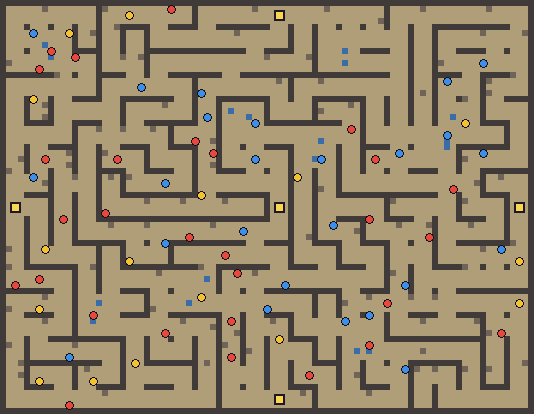
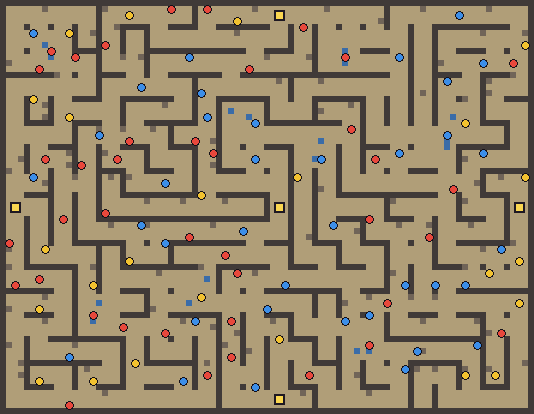
Site do Mekhane: lote 0.1(15) (Ciclope novo, +50% de monstros na descida de Calcópolis, kits e preços novos)

diff --git a/mekhane/mapas/index.html b/mekhane/mapas/index.html
@@ -50,19 +50,19 @@
 </article><article class="card map" data-search="ruína do aqueduto vespa de fornalha roe-escória devorapedra" data-reg="2">
   <h3>Ruína do Aqueduto</h3><p class="muted small">Galerias de Cobre</p>
   <a class="map-wrap" href="/mekhane/img/maps/calc_ruina_a.png" target="_blank" rel="noopener"><img src="/mekhane/img/maps/calc_ruina_a.png" alt="Mapa de Ruína do Aqueduto" width="180" height="132" loading="lazy"></a>
-  <ul class="legend"><li><span class="dot" style="background:#e8483c"></span><img class="px" src="/mekhane/img/monsters/furnace_wasp.png" alt="" loading="lazy"><span>Vespa de Fornalha<small>nível 21 · 4 no mapa</small></span></li><li><span class="dot" style="background:#3c8ee8"></span><img class="px" src="/mekhane/img/monsters/slag_rat.png" alt="" loading="lazy"><span>Roe-Escória<small>nível 22 · 3 no mapa</small></span></li><li><span class="dot" style="background:#f2c230"></span><img class="px" src="/mekhane/img/monsters/ballaster.png" alt="" loading="lazy"><span>Devorapedra<small>nível 24 · 5 no mapa</small></span></li></ul><p class="muted small"><span class="key portal"></span> Leva para: Calcópolis, Galerias de Cobre</p>
-</article><article class="card map" data-search="ruína do templo raiz faminta tecelã de raízes" data-reg="2">
+  <ul class="legend"><li><span class="dot" style="background:#e8483c"></span><img class="px" src="/mekhane/img/monsters/furnace_wasp.png" alt="" loading="lazy"><span>Vespa de Fornalha<small>nível 21 · 4 no mapa</small></span></li><li><span class="dot" style="background:#3c8ee8"></span><img class="px" src="/mekhane/img/monsters/slag_rat.png" alt="" loading="lazy"><span>Roe-Escória<small>nível 22 · 7 no mapa</small></span></li><li><span class="dot" style="background:#f2c230"></span><img class="px" src="/mekhane/img/monsters/ballaster.png" alt="" loading="lazy"><span>Devorapedra<small>nível 24 · 7 no mapa</small></span></li></ul><p class="muted small"><span class="key portal"></span> Leva para: Calcópolis, Galerias de Cobre</p>
+</article><article class="card map" data-search="ruína do templo raiz faminta tecelã de raízes javali de cobre" data-reg="2">
   <h3>Ruína do Templo</h3><p class="muted small">Galerias de Cobre</p>
   <a class="map-wrap" href="/mekhane/img/maps/calc_ruina_b.png" target="_blank" rel="noopener"><img src="/mekhane/img/maps/calc_ruina_b.png" alt="Mapa de Ruína do Templo" width="180" height="132" loading="lazy"></a>
-  <ul class="legend"><li><span class="dot" style="background:#e8483c"></span><img class="px" src="/mekhane/img/monsters/root_cutter.png" alt="" loading="lazy"><span>Raiz Faminta<small>nível 25 · 11 no mapa</small></span></li><li><span class="dot" style="background:#3c8ee8"></span><img class="px" src="/mekhane/img/monsters/rope_knot.png" alt="" loading="lazy"><span>Tecelã de Raízes<small>nível 26 · 1 no mapa</small></span></li></ul><p class="muted small"><span class="key portal"></span> Leva para: Calcópolis, Galerias de Cobre</p>
+  <ul class="legend"><li><span class="dot" style="background:#e8483c"></span><img class="px" src="/mekhane/img/monsters/root_cutter.png" alt="" loading="lazy"><span>Raiz Faminta<small>nível 25 · 14 no mapa</small></span></li><li><span class="dot" style="background:#3c8ee8"></span><img class="px" src="/mekhane/img/monsters/rope_knot.png" alt="" loading="lazy"><span>Tecelã de Raízes<small>nível 26 · 3 no mapa</small></span></li><li><span class="dot" style="background:#f2c230"></span><img class="px" src="/mekhane/img/monsters/verdigris_boar.png" alt="" loading="lazy"><span>Javali de Cobre<small>nível 28 · 1 no mapa</small></span></li></ul><p class="muted small"><span class="key portal"></span> Leva para: Calcópolis, Galerias de Cobre</p>
 </article><article class="card map" data-search="ruína do farol harpia da falésia olho de vidro casco de bronze" data-reg="2">
   <h3>Ruína do Farol</h3><p class="muted small">Galerias de Cobre</p>
   <a class="map-wrap" href="/mekhane/img/maps/calc_ruina_c.png" target="_blank" rel="noopener"><img src="/mekhane/img/maps/calc_ruina_c.png" alt="Mapa de Ruína do Farol" width="180" height="132" loading="lazy"></a>
-  <ul class="legend"><li><span class="dot" style="background:#e8483c"></span><img class="px" src="/mekhane/img/monsters/cliff_harpy.png" alt="" loading="lazy"><span>Harpia da Falésia<small>nível 30 · 8 no mapa</small></span></li><li><span class="dot" style="background:#3c8ee8"></span><img class="px" src="/mekhane/img/monsters/glassling.png" alt="" loading="lazy"><span>Olho de Vidro<small>nível 31 · 1 no mapa</small></span></li><li><span class="dot" style="background:#f2c230"></span><img class="px" src="/mekhane/img/monsters/bell_limpet.png" alt="" loading="lazy"><span>Casco de Bronze<small>nível 33 · 3 no mapa</small></span></li></ul><p class="muted small"><span class="key portal"></span> Leva para: Calcópolis, Galerias de Cobre</p>
+  <ul class="legend"><li><span class="dot" style="background:#e8483c"></span><img class="px" src="/mekhane/img/monsters/cliff_harpy.png" alt="" loading="lazy"><span>Harpia da Falésia<small>nível 30 · 12 no mapa</small></span></li><li><span class="dot" style="background:#3c8ee8"></span><img class="px" src="/mekhane/img/monsters/glassling.png" alt="" loading="lazy"><span>Olho de Vidro<small>nível 31 · 3 no mapa</small></span></li><li><span class="dot" style="background:#f2c230"></span><img class="px" src="/mekhane/img/monsters/bell_limpet.png" alt="" loading="lazy"><span>Casco de Bronze<small>nível 33 · 3 no mapa</small></span></li></ul><p class="muted small"><span class="key portal"></span> Leva para: Calcópolis, Galerias de Cobre</p>
 </article><article class="card map" data-search="galerias de cobre morcego da mina escavador de kálias escavador de cobre" data-reg="2">
   <h3>Galerias de Cobre</h3><p class="muted small">Galerias de Cobre</p>
   <a class="map-wrap" href="/mekhane/img/maps/calc_galerias.png" target="_blank" rel="noopener"><img src="/mekhane/img/maps/calc_galerias.png" alt="Mapa de Galerias de Cobre" width="534" height="414" loading="lazy"></a>
-  <ul class="legend"><li><span class="dot" style="background:#e8483c"></span><img class="px" src="/mekhane/img/monsters/vein_bat.png" alt="" loading="lazy"><span>Morcego da Mina<small>nível 29 · 29 no mapa</small></span></li><li><span class="dot" style="background:#3c8ee8"></span><img class="px" src="/mekhane/img/monsters/kalias_miner.png" alt="" loading="lazy"><span>Escavador de Kálias<small>nível 31 · 25 no mapa</small></span></li><li><span class="dot" style="background:#f2c230"></span><img class="px" src="/mekhane/img/monsters/copper_mole.png" alt="" loading="lazy"><span>Escavador de Cobre<small>nível 34 · 16 no mapa</small></span></li></ul><p class="muted small"><span class="key portal"></span> Leva para: Fornalhas Antigas, Ruína do Aqueduto, Ruína do Farol, Ruína do Templo, Veios Profundos</p>
+  <ul class="legend"><li><span class="dot" style="background:#e8483c"></span><img class="px" src="/mekhane/img/monsters/vein_bat.png" alt="" loading="lazy"><span>Morcego da Mina<small>nível 29 · 40 no mapa</small></span></li><li><span class="dot" style="background:#3c8ee8"></span><img class="px" src="/mekhane/img/monsters/kalias_miner.png" alt="" loading="lazy"><span>Escavador de Kálias<small>nível 31 · 37 no mapa</small></span></li><li><span class="dot" style="background:#f2c230"></span><img class="px" src="/mekhane/img/monsters/copper_mole.png" alt="" loading="lazy"><span>Escavador de Cobre<small>nível 34 · 24 no mapa</small></span></li></ul><p class="muted small"><span class="key portal"></span> Leva para: Fornalhas Antigas, Ruína do Aqueduto, Ruína do Farol, Ruína do Templo, Veios Profundos</p>
 </article><article class="card map" data-search="planalto do castelo velho sentinela de musgo corvo da torre guarda sem rei golem de brasão" data-reg="2">
   <h3>Planalto do Castelo Velho</h3><p class="muted small">Galerias de Cobre</p>
   <a class="map-wrap" href="/mekhane/img/maps/calc_planalto.png" target="_blank" rel="noopener"><img src="/mekhane/img/maps/calc_planalto.png" alt="Mapa de Planalto do Castelo Velho" width="540" height="384" loading="lazy"></a>
@@ -70,15 +70,15 @@
 </article><article class="card map" data-search="veios profundos gosma corrosiva rasteja-minas sicário de kálias punho de kálias" data-reg="2">
   <h3>Veios Profundos</h3><p class="muted small">Galerias de Cobre</p>
   <a class="map-wrap" href="/mekhane/img/maps/calc_veios.png" target="_blank" rel="noopener"><img src="/mekhane/img/maps/calc_veios.png" alt="Mapa de Veios Profundos" width="492" height="360" loading="lazy"></a>
-  <ul class="legend"><li><span class="dot" style="background:#e8483c"></span><img class="px" src="/mekhane/img/monsters/acid_ooze.png" alt="" loading="lazy"><span>Gosma Corrosiva<small>nível 35 · 29 no mapa</small></span></li><li><span class="dot" style="background:#3c8ee8"></span><img class="px" src="/mekhane/img/monsters/vein_crawler.png" alt="" loading="lazy"><span>Rasteja-Minas<small>nível 37 · 14 no mapa</small></span></li><li><span class="dot" style="background:#f2c230"></span><img class="px" src="/mekhane/img/monsters/kalias_thug.png" alt="" loading="lazy"><span>Sicário de Kálias<small>nível 39 · 12 no mapa</small></span></li><li><span class="dot" style="background:#a453e0"></span><img class="px" src="/mekhane/img/monsters/kalias_foreman.png" alt="" loading="lazy"><span>Punho de Kálias <b class=boss-t>chefe</b><small>nível 40 · 1 no mapa</small></span></li></ul><p class="muted small"><span class="key portal"></span> Leva para: Fornalhas Antigas, Galerias de Cobre</p>
+  <ul class="legend"><li><span class="dot" style="background:#e8483c"></span><img class="px" src="/mekhane/img/monsters/acid_ooze.png" alt="" loading="lazy"><span>Gosma Corrosiva<small>nível 35 · 45 no mapa</small></span></li><li><span class="dot" style="background:#3c8ee8"></span><img class="px" src="/mekhane/img/monsters/vein_crawler.png" alt="" loading="lazy"><span>Rasteja-Minas<small>nível 37 · 19 no mapa</small></span></li><li><span class="dot" style="background:#f2c230"></span><img class="px" src="/mekhane/img/monsters/kalias_thug.png" alt="" loading="lazy"><span>Sicário de Kálias<small>nível 39 · 18 no mapa</small></span></li><li><span class="dot" style="background:#a453e0"></span><img class="px" src="/mekhane/img/monsters/kalias_foreman.png" alt="" loading="lazy"><span>Punho de Kálias <b class=boss-t>chefe</b><small>nível 40 · 1 no mapa</small></span></li></ul><p class="muted small"><span class="key portal"></span> Leva para: Fornalhas Antigas, Galerias de Cobre</p>
 </article><article class="card map" data-search="fornalhas antigas demônio de brasa sentinela do forno lagarto de magma" data-reg="2">
   <h3>Fornalhas Antigas</h3><p class="muted small">Galerias de Cobre</p>
   <a class="map-wrap" href="/mekhane/img/maps/calc_fornalhas.png" target="_blank" rel="noopener"><img src="/mekhane/img/maps/calc_fornalhas.png" alt="Mapa de Fornalhas Antigas" width="438" height="330" loading="lazy"></a>
-  <ul class="legend"><li><span class="dot" style="background:#e8483c"></span><img class="px" src="/mekhane/img/monsters/cinder_imp.png" alt="" loading="lazy"><span>Demônio de Brasa<small>nível 41 · 32 no mapa</small></span></li><li><span class="dot" style="background:#3c8ee8"></span><img class="px" src="/mekhane/img/monsters/furnace_keeper.png" alt="" loading="lazy"><span>Sentinela do Forno<small>nível 43 · 14 no mapa</small></span></li><li><span class="dot" style="background:#f2c230"></span><img class="px" src="/mekhane/img/monsters/lava_tortoise.png" alt="" loading="lazy"><span>Lagarto de Magma<small>nível 45 · 9 no mapa</small></span></li></ul><p class="muted small"><span class="key portal"></span> Leva para: Fundição, Galerias de Cobre</p>
+  <ul class="legend"><li><span class="dot" style="background:#e8483c"></span><img class="px" src="/mekhane/img/monsters/cinder_imp.png" alt="" loading="lazy"><span>Demônio de Brasa<small>nível 41 · 46 no mapa</small></span></li><li><span class="dot" style="background:#3c8ee8"></span><img class="px" src="/mekhane/img/monsters/furnace_keeper.png" alt="" loading="lazy"><span>Sentinela do Forno<small>nível 43 · 23 no mapa</small></span></li><li><span class="dot" style="background:#f2c230"></span><img class="px" src="/mekhane/img/monsters/lava_tortoise.png" alt="" loading="lazy"><span>Lagarto de Magma<small>nível 45 · 13 no mapa</small></span></li></ul><p class="muted small"><span class="key portal"></span> Leva para: Fundição, Galerias de Cobre</p>
 </article><article class="card map" data-search="fundição fagulha golem de fogo punho de fundição ciclope ferreiro" data-reg="2">
   <h3>Fundição</h3><p class="muted small">Galerias de Cobre</p>
   <a class="map-wrap" href="/mekhane/img/maps/calc_fundicao.png" target="_blank" rel="noopener"><img src="/mekhane/img/maps/calc_fundicao.png" alt="Mapa de Fundição" width="420" height="312" loading="lazy"></a>
-  <ul class="legend"><li><span class="dot" style="background:#e8483c"></span><img class="px" src="/mekhane/img/monsters/spark_wisp.png" alt="" loading="lazy"><span>Fagulha<small>nível 46 · 22 no mapa</small></span></li><li><span class="dot" style="background:#3c8ee8"></span><img class="px" src="/mekhane/img/monsters/slag_golem.png" alt="" loading="lazy"><span>Golem de Fogo<small>nível 47 · 10 no mapa</small></span></li><li><span class="dot" style="background:#f2c230"></span><img class="px" src="/mekhane/img/monsters/hammer_automaton.png" alt="" loading="lazy"><span>Punho de Fundição<small>nível 49 · 8 no mapa</small></span></li><li><span class="dot" style="background:#a453e0"></span><img class="px" src="/mekhane/img/monsters/foundry_cyclops.png" alt="" loading="lazy"><span>Ciclope Ferreiro <b class=boss-t>chefe</b><small>nível 50 · 1 no mapa</small></span></li></ul><p class="muted small"><span class="key portal"></span> Leva para: Fornalhas Antigas</p>
+  <ul class="legend"><li><span class="dot" style="background:#e8483c"></span><img class="px" src="/mekhane/img/monsters/spark_wisp.png" alt="" loading="lazy"><span>Fagulha<small>nível 46 · 32 no mapa</small></span></li><li><span class="dot" style="background:#3c8ee8"></span><img class="px" src="/mekhane/img/monsters/slag_golem.png" alt="" loading="lazy"><span>Golem de Fogo<small>nível 47 · 16 no mapa</small></span></li><li><span class="dot" style="background:#f2c230"></span><img class="px" src="/mekhane/img/monsters/hammer_automaton.png" alt="" loading="lazy"><span>Punho de Fundição<small>nível 49 · 12 no mapa</small></span></li><li><span class="dot" style="background:#a453e0"></span><img class="px" src="/mekhane/img/monsters/foundry_cyclops.png" alt="" loading="lazy"><span>Ciclope Ferreiro <b class=boss-t>chefe</b><small>nível 50 · 1 no mapa</small></span></li></ul><p class="muted small"><span class="key portal"></span> Leva para: Fornalhas Antigas</p>
 </article><article class="card map" data-search="masmorra do castelo velho guarda morto espectro da cela carcereiro de ferro" data-reg="2">
   <h3>Masmorra do Castelo Velho</h3><p class="muted small">Galerias de Cobre</p>
   <a class="map-wrap" href="/mekhane/img/maps/calc_masmorra.png" target="_blank" rel="noopener"><img src="/mekhane/img/maps/calc_masmorra.png" alt="Mapa de Masmorra do Castelo Velho" width="372" height="240" loading="lazy"></a>

diff --git a/mekhane/monstros/index.html b/mekhane/monstros/index.html
@@ -279,7 +279,7 @@
   <details><summary>Deixa cair (7)</summary><ul class="loot"><li><img class="px" src="/mekhane/img/items/cast_iron.png" alt="" width="28" height="28" loading="lazy"><span>Ferro Fundido</span><b>50%</b></li><li><img class="px" src="/mekhane/img/items/live_copper.png" alt="" width="28" height="28" loading="lazy"><span>Cobre Vivo</span><b>15%</b></li><li><img class="px" src="/mekhane/img/items/diamond_shard.png" alt="" width="28" height="28" loading="lazy"><span>Fragmento de Diamante</span><b>2,8%</b></li><li><img class="px" src="/mekhane/img/items/live_slag_amulet.png" alt="" width="28" height="28" loading="lazy"><span>Amuleto de Escória Viva</span><b>2%</b></li><li><img class="px" src="/mekhane/img/items/cast_spear.png" alt="" width="28" height="28" loading="lazy"><span>Lança Fundida</span><b>1,5%</b></li><li><img class="px" src="/mekhane/img/items/cast_javelin.png" alt="" width="28" height="28" loading="lazy"><span>Azagaia Fundida</span><b>1,5%</b></li><li><img class="px" src="/mekhane/img/items/cast_rod.png" alt="" width="28" height="28" loading="lazy"><span>Vara Fundida</span><b>1,5%</b></li></ul></details>
 </article><article class="card monster" data-search="ciclope ferreiro fundição olho do ciclope lança fundida azagaia fundida vara fundida cobre vivo fragmento de diamante" data-reg="2" data-cat="boss">
   <header><div class="mon-pic"><img class="px" src="/mekhane/img/monsters/foundry_cyclops.png" alt="" loading="lazy"></div><div><h3>Ciclope Ferreiro <span class="tag boss">Chefe</span></h3><p class="muted small">Nível 50 · Fundição</p></div></header>
-  <dl class="facts mini"><div><dt>Vida</dt><dd>25.308</dd></div><div><dt>Ataque</dt><dd>273</dd></div>
+  <dl class="facts mini"><div><dt>Vida</dt><dd>36.630</dd></div><div><dt>Ataque</dt><dd>420</dd></div>
   <div><dt>Defesa</dt><dd>50</dd></div><div><dt>XP</dt><dd>16.200</dd></div>
   <div><dt>Ouro</dt><dd>400–700</dd></div><div><dt>Volta em</dt><dd>20 min</dd></div></dl>
   <details><summary>Deixa cair (6)</summary><ul class="loot"><li><img class="px" src="/mekhane/img/items/live_copper.png" alt="" width="28" height="28" loading="lazy"><span>Cobre Vivo</span><b>100%</b></li><li><img class="px" src="/mekhane/img/items/diamond_shard.png" alt="" width="28" height="28" loading="lazy"><span>Fragmento de Diamante</span><b>100%</b></li><li><img class="px" src="/mekhane/img/items/cyclops_eye.png" alt="" width="28" height="28" loading="lazy"><span>Olho do Ciclope</span><b>25%</b></li><li><img class="px" src="/mekhane/img/items/cast_spear.png" alt="" width="28" height="28" loading="lazy"><span>Lança Fundida</span><b>25%</b></li><li><img class="px" src="/mekhane/img/items/cast_javelin.png" alt="" width="28" height="28" loading="lazy"><span>Azagaia Fundida</span><b>25%</b></li><li><img class="px" src="/mekhane/img/items/cast_rod.png" alt="" width="28" height="28" loading="lazy"><span>Vara Fundida</span><b>25%</b></li></ul></details>
